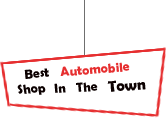
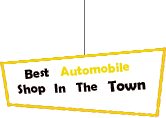
working

Changed region(s): [[0.0, 0.3814, 1.0, 0.9915], [0.3614, 0.5085, 0.7831, 0.661]]

diff --git a/client/src/Component/Header/Navbar.jsx b/client/src/Component/Header/Navbar.jsx
@@ -1,0 +1,110 @@
+import React from "react";
+
+const Navbar = () => {
+  return (
+    <header className="bg-black text-white">
+      {/* Top bar */}
+      <div className="flex justify-end items-center py-2 px-4 text-sm">
+        <a
+          href="tel:03150222850"
+          className="hover:underline text-yellow-400 font-bold"
+        >
+          → Need Help? Call Us at 0315-0222850
+        </a>
+      </div>
+
+      {/* Main Navbar */}
+      <div className="bg-white shadow-md">
+        <div className="container mx-auto flex justify-between items-center py-4 px-6">
+          {/* Logo */}
+          <a href="#" className="flex items-center">
+            <img
+              src="https://via.placeholder.com/100x100" // Replace with your logo URL
+              alt="Azem Autos Logo"
+              className="h-16 w-auto"
+            />
+          </a>
+
+          {/* Search Bar */}
+          <div className="flex-grow mx-8">
+            <input
+              type="text"
+              placeholder="I am shopping for..."
+              className="w-full border rounded-full px-4 py-2 text-sm focus:outline-none focus:ring-2 focus:ring-yellow-400"
+            />
+          </div>
+
+          {/* Icons and Links */}
+          <div className="flex items-center space-x-4">
+            {/* Swap Icon */}
+            <button className="text-gray-500 hover:text-black">
+              <svg
+                xmlns="http://www.w3.org/2000/svg"
+                className="h-6 w-6"
+                fill="none"
+                viewBox="0 0 24 24"
+                stroke="currentColor"
+                strokeWidth={2}
+              >
+                <path
+                  strokeLinecap="round"
+                  strokeLinejoin="round"
+                  d="M4.75 15.25h14.5M4.75 8.75h14.5m-14.5 0l5.25-5.25m9.25 11l-5.25 5.25"
+                />
+              </svg>
+            </button>
+
+            {/* Heart Icon */}
+            <button className="text-gray-500 hover:text-black">
+              <svg
+                xmlns="http://www.w3.org/2000/svg"
+                className="h-6 w-6"
+                fill="none"
+                viewBox="0 0 24 24"
+                stroke="currentColor"
+                strokeWidth={2}
+              >
+                <path
+                  strokeLinecap="round"
+                  strokeLinejoin="round"
+                  d="M4.75 6.75l7 7m0 0l7-7m-7 7v6.5m7-7H4.75"
+                />
+              </svg>
+            </button>
+
+            {/* Bell Icon */}
+            <button className="text-gray-500 hover:text-black">
+              <svg
+                xmlns="http://www.w3.org/2000/svg"
+                className="h-6 w-6"
+                fill="none"
+                viewBox="0 0 24 24"
+                stroke="currentColor"
+                strokeWidth={2}
+              >
+                <path
+                  strokeLinecap="round"
+                  strokeLinejoin="round"
+                  d="M8 8m0 2h12M8 4h12m0 8H8m0 4h12M8 8m-4 4h12"
+                />
+              </svg>
+            </button>
+
+            {/* Login / Registration */}
+            <div className="text-sm space-x-2">
+              <a href="#" className="hover:underline">
+                Login
+              </a>
+              <span>|</span>
+              <a href="#" className="hover:underline">
+                Registration
+              </a>
+            </div>
+          </div>
+        </div>
+      </div>
+    </header>
+  );
+};
+
+export default Navbar;

diff --git a/client/src/Component/Header/Header.jsx b/client/src/Component/Header/Header.jsx
@@ -1,6 +1,7 @@
 import Button from "./Button";
 import SwingFigure from "./SwingFigure";
 import React, { useState, useEffect } from "react";
+import Navbar from "./Navbar";
 
 const Header = () => {
   const [isMenuVisible, setIsMenuVisible] = useState(false);
@@ -22,16 +23,18 @@ const Header = () => {
   }, []);
   return (
     <div>
+      <SwingFigure/>
       {/* NavBar */}
-      <nav className="p-3 flex bg-gray-100 justify-between items-center">
+      <nav className="p-3 flex bg-gray-300 justify-around items-center">
         <a href="#" id="brand" className="flex gap-2 items-center">
           <img
-            src="/Automobile.png"
+            src="/Logo.png"
             alt="
             Logo"
             className=" object-cover max-w-24 max-h-16"
             />
-          <span className="text-3xl font-bold font-serif">AutoMobile</span>
+          <span className="text-3xl font-bold font-serif text-yellow-200">Azeem</span>
+          <span className="text-3xl font-bold font-serif">Autos</span>
         </a>
             
         {/* navmenu */}

diff --git a/client/src/Component/Header/SwingFigure.jsx b/client/src/Component/Header/SwingFigure.jsx
@@ -1,15 +1,13 @@
 import img from "../../../public/banner.png"
 const SwingFigure = () => {
   return (
-    <figure className="block my-4 mx-10">
+    <figure className="hidden lg:flex absolute top-0 left-1/3 transform -translate-x-1/2 z-50">
       <img
-        src={img}
+        src="/banner.png"
         alt="white-label-20percent"
         title="white-label-20percent"
-        width="87"
-        height="72"
         loading="lazy"
-        className="animate-swing origin-swing float-left "
+        className="animate-swing origin-swing  h-44 float-left "
       />
     </figure>
   );
